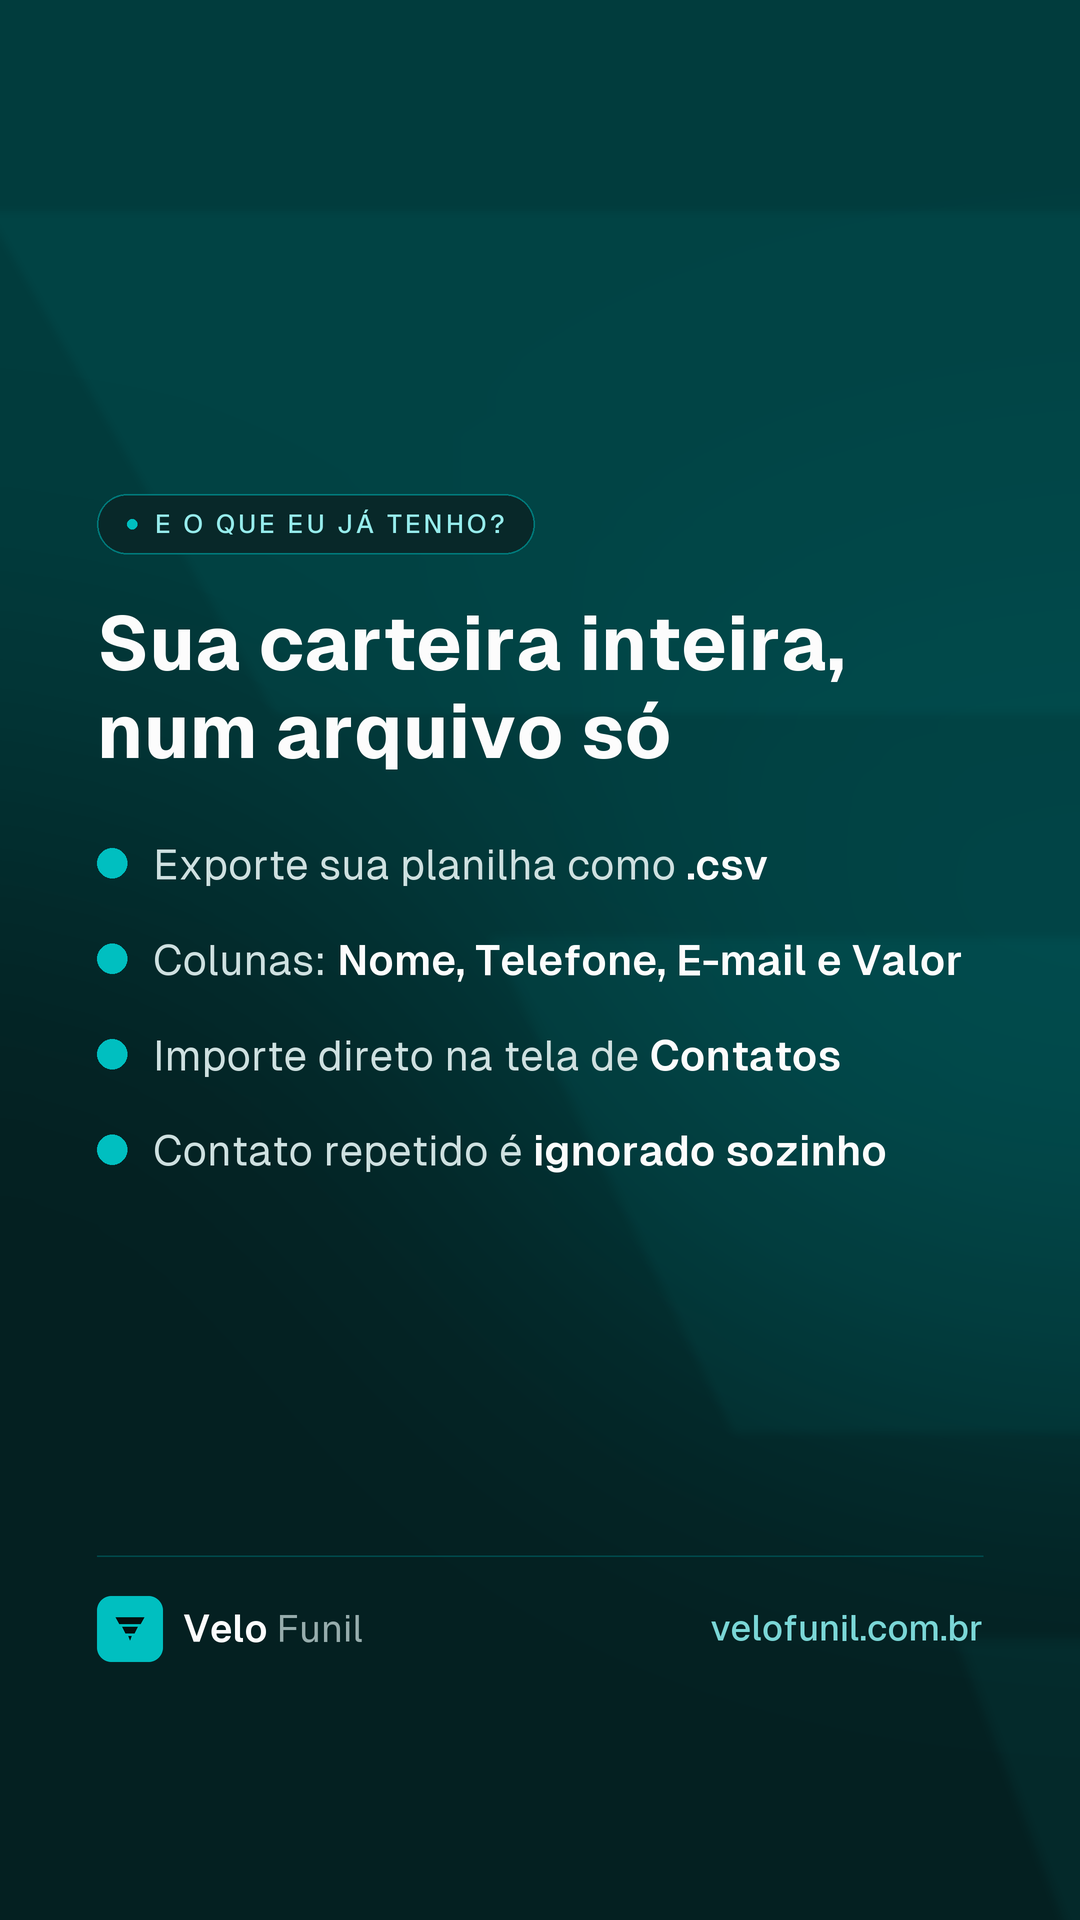
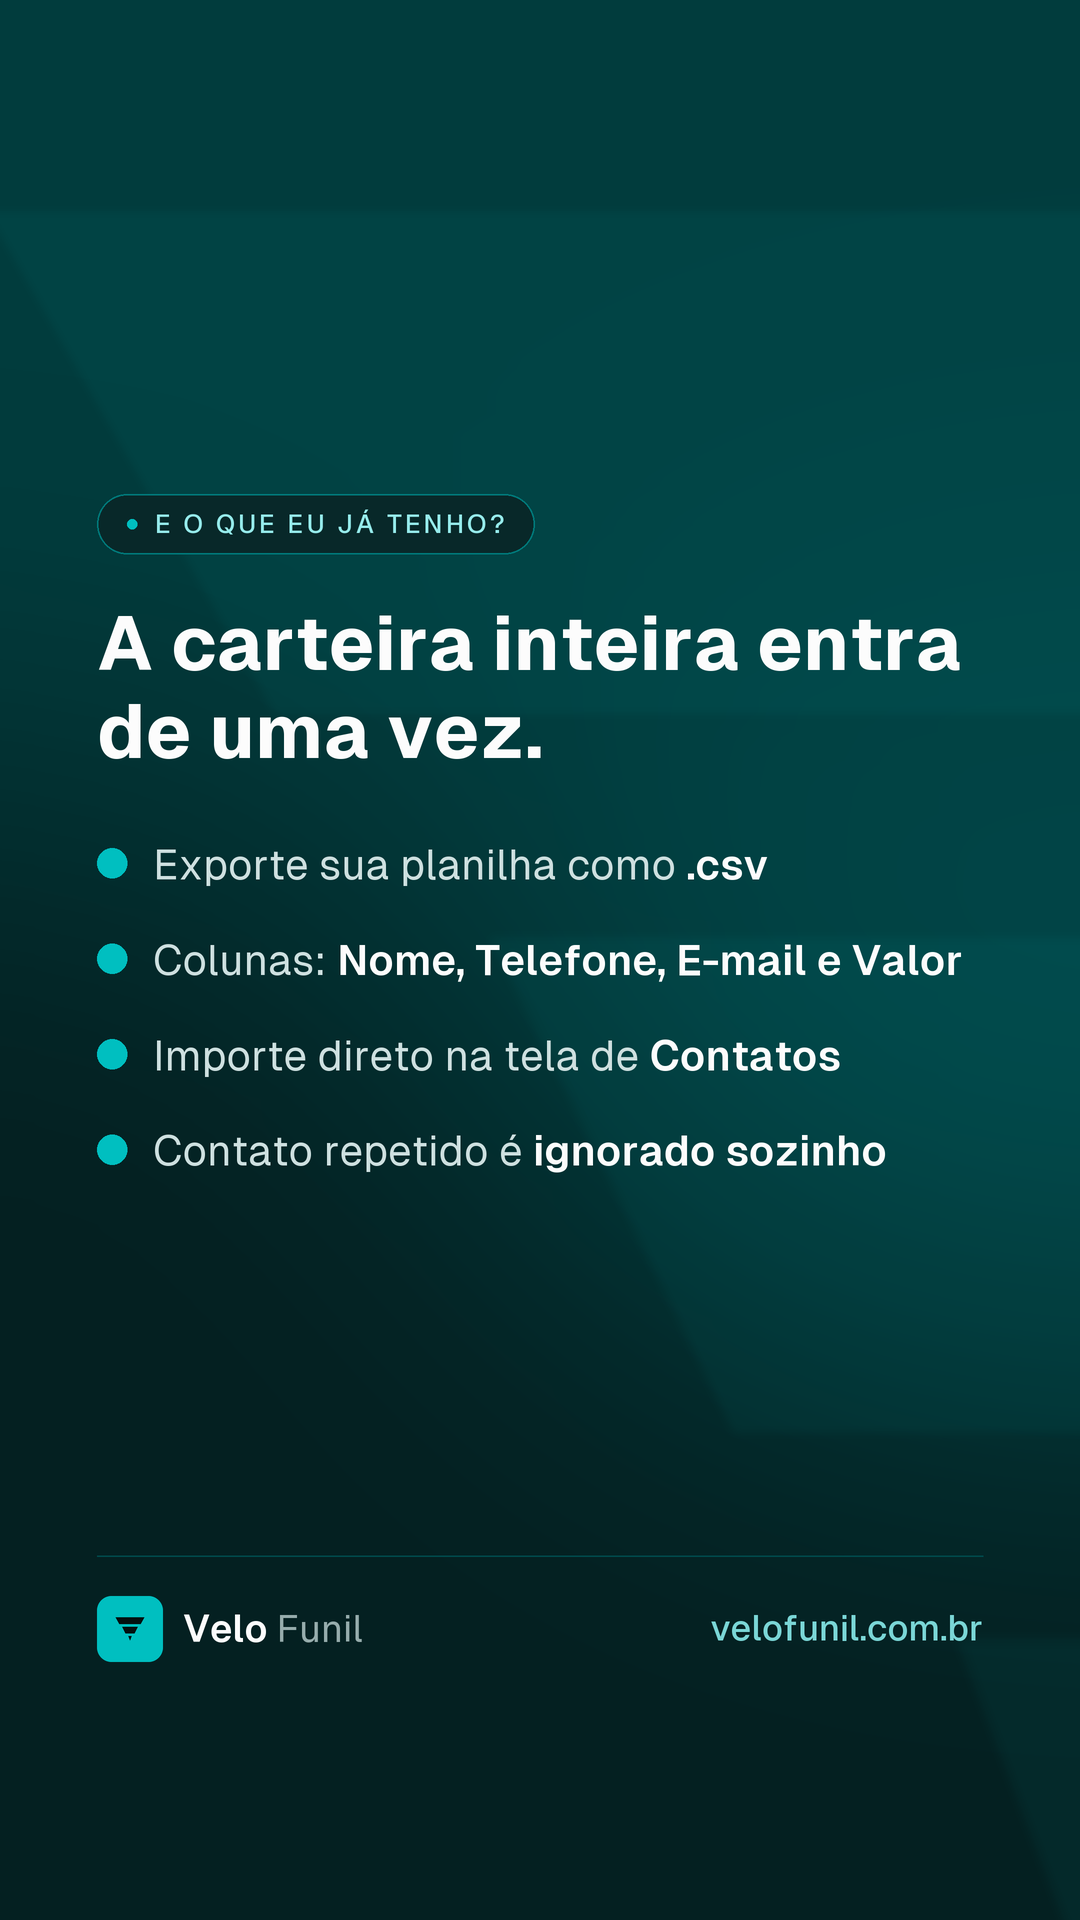
fix(marketing): as cinco manchetes do Perguntas abriam todas do mesmo jeito
Lidas uma por vez, estavam boas. Lidas em SEQUÊNCIA, que é como o Instagram
entrega um destaque, apareceram três defeitos.

O primeiro é o que mais custa. As primeiras palavras eram Você / Você / Sua /
Seus / Você: cinco aberturas com pronome de segunda pessoa, três delas com a
palavra "Você" literal. Ninguém nota numa tela; em cinco seguidas o olho para
de registrar a diferença e o conjunto lê como template, que é exatamente o
defeito que d5a5b82 existiu para corrigir.

O segundo: as telas 1 e 2 diziam a mesma coisa, e com o mesmo verbo. "Você
começa com tudo ligado" seguido de "Você cria a conta e já começa" faz a
segunda parecer repetição, e repetição em Story é o que faz pular o resto.

O terceiro: a tela 3 era a única sem ponto final.

  Você cria a conta e já começa.        ->  Pronto no primeiro acesso.
  Sua carteira inteira, num arquivo só  ->  A carteira inteira entra de uma vez.

A cadência agora é Você / Pronto / A carteira / Seus clientes / Você. O "Você"
emoldura o conjunto de propósito, abrindo a primeira e fechando a última, com
três ritmos diferentes no meio. Isso ficou escrito no docstring, porque é o tipo
de coisa que alguém desfaz sem perceber ao "padronizar" as manchetes.

Conferido abrindo as duas telas trocadas: as manchetes novas continuam em duas
linhas, sem estourar o bloco, e o corpo não moveu. Gate com build:check,
localhost de pé, .zip em 200.

Changed region(s): [[0.0917, 0.3125, 0.8861, 0.4062]]

diff --git a/scripts/marketing/gerar-stories.py b/scripts/marketing/gerar-stories.py
@@ -1014,6 +1014,18 @@ def destaque_perguntas():
     Esquecer uma venda dói uma vez; perder a carteira não tem conserto. Medo
     move compra com muito menos objeção de preço do que conveniência.
 
+    ## A cadência das cinco é escolhida, não sobra
+
+    As primeiras palavras são: Você / Pronto / A carteira / Seus clientes /
+    Você. Antes eram Você / Você / Sua / Seus / Você — cinco aberturas com
+    pronome de segunda pessoa, três delas com a palavra "Você" literal. Uma
+    tela por vez ninguém nota; em SEQUÊNCIA, que é como o Instagram entrega,
+    isso lê como template e o olho para de registrar a diferença.
+
+    "Você" agora emoldura o conjunto: abre a primeira e fecha a última, com
+    três ritmos diferentes no meio. Se alguém for "padronizar" as manchetes um
+    dia, é isto que estará desfazendo.
+
     ## A ordem, e o arco que ela desenha
 
     começar -> usar onde você já está -> trazer o que já é seu -> manter o que
@@ -1050,7 +1062,7 @@ def destaque_perguntas():
     # semanas de espera e técnico marcando visita.
     tela_declaracao(
         "Preciso instalar?",
-        "Você cria a conta e já começa.",
+        "Pronto no primeiro acesso.",
         "Funciona pelo navegador, em qualquer aparelho, sem baixar e sem "
         "instalar nada. Não existe projeto de implantação nem espera por "
         "técnico.",
@@ -1059,7 +1071,7 @@ def destaque_perguntas():
 
     tela_lista(
         "E o que eu já tenho?",
-        "Sua carteira inteira, num arquivo só",
+        "A carteira inteira entra de uma vez.",
         [
             ("Exporte sua planilha como .csv", ".csv"),
             ("Colunas: Nome, Telefone, E-mail e Valor", "Nome, Telefone, E-mail e Valor"),
